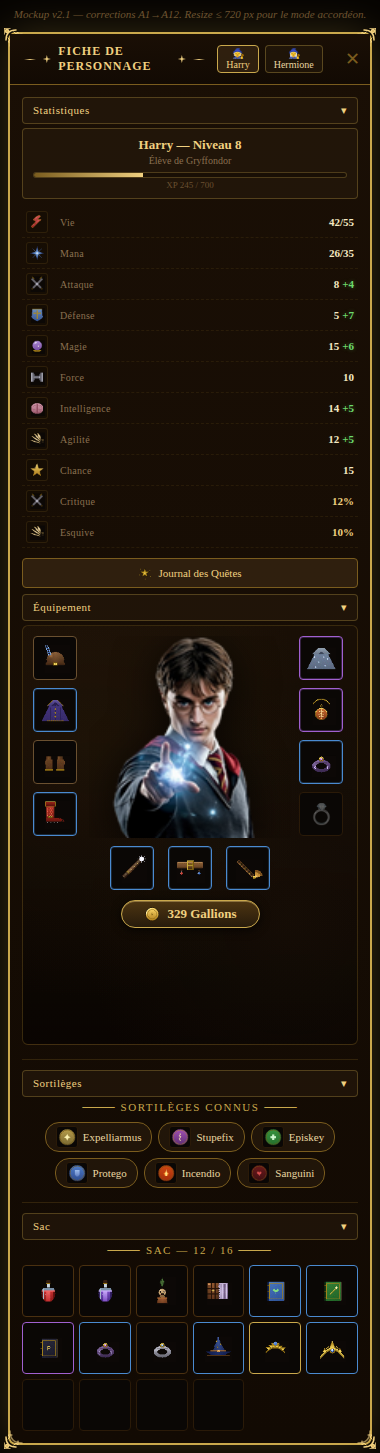
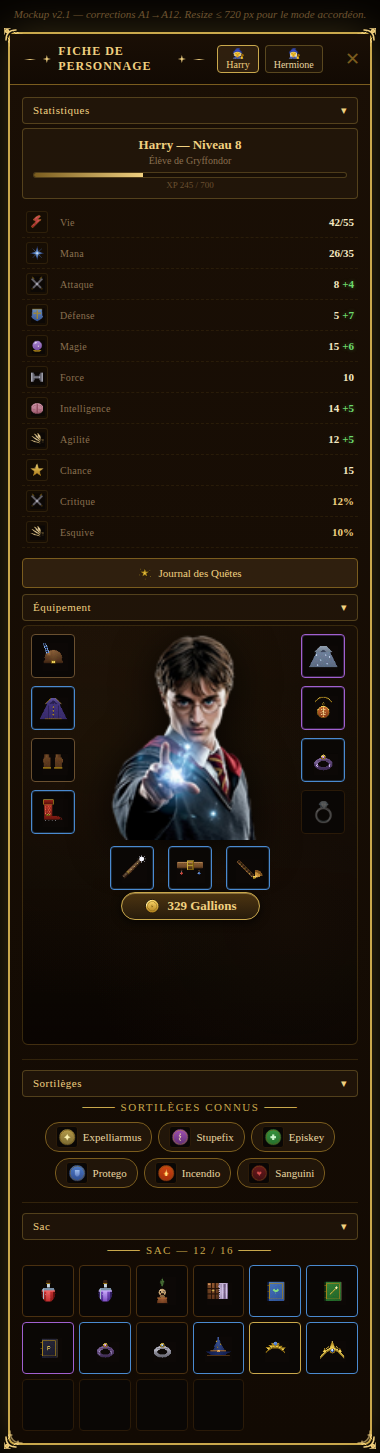
fix(character): mockup v2.10 — image dicte sa hauteur, plus aucune zone fixe
Diagnostic v2.9 raté : aspect-ratio:1 forçait la zone stage à être
plus grande que l'image source 128×128 (zone calculée d'après la
largeur 1fr du grid, généralement ~360px), créant un upscale via
object-fit:cover qui masquait le bas du perso (vide perceptible
au-dessus de la tête car le cropping coupait la partie haute).

v2.10 : aucune contrainte de taille sur le stage.
- aspect-ratio supprimé
- min-height supprimé
- font-size:0 line-height:0 sur stage → pas d'espace baseline parasite
- img : width:100% + height:auto → hauteur = ratio naturel (carré donc
  hauteur = largeur)
- gap:0 entre main et bottom dans paper-doll, margin-top:6px sur bottom
- bordure du stage ajustée

Résultat : la tête de Harry est collée au bord supérieur du stage,
le bas de l'image est collé à 6 px de la rangée d'armes. Plus aucun
trou possible.

diff --git a/tools/mockup_character_v2.html b/tools/mockup_character_v2.html
@@ -204,49 +204,38 @@ body {
   border:1px solid rgba(122,92,30,0.40);
   border-radius:6px;
   overflow:hidden;
-  padding:10px;
+  padding:8px;
   display:flex; flex-direction:column;
-  gap:6px;
+  gap:0;                     /* zéro gap : tout est collé */
 }
 .paper-doll-main{
   display:grid;
   grid-template-columns: 54px 1fr 54px;
   gap:8px;
-  align-items:start;        /* colonnes ne s'étirent pas — stage dicte sa propre hauteur */
+  align-items:start;
 }
 .paper-doll-col{
   display:flex; flex-direction:column;
   gap:8px;
 }
+/* Stage : ZÉRO hauteur propre, l'image dicte tout via width:100% + height:auto.
+   Pas d'aspect-ratio, pas de min-height : aucune source de vide possible. */
 .paper-doll-stage{
   position:relative;
-  aspect-ratio:1 / 1;       /* zone CARRÉE — image carrée la remplit sans trou */
-  width:100%;
-  display:flex;
-  align-items:flex-start;
-  justify-content:center;
-  overflow:hidden;
-  border-radius:4px;
-}
-/* Socle radial sous le perso */
-.paper-doll-stage::after{
-  content:''; position:absolute;
-  left:50%; bottom:0; transform:translateX(-50%);
-  width:80%; height:24px;
-  background:radial-gradient(ellipse at center, rgba(0,0,0,0.6), transparent 70%);
-  pointer-events:none; z-index:3;
+  display:block;
+  font-size:0;               /* supprime l'espace blanc sous l'image inline */
+  line-height:0;
 }
 .paper-doll-stage .pd-portrait{
-  position:relative; z-index:2;
-  width:100%; height:100%;
-  object-fit:cover;          /* remplit toute la zone carrée */
-  object-position:center top;
+  display:block;
+  width:100%;
+  height:auto;
   filter:drop-shadow(0 8px 22px rgba(0,0,0,0.75));
 }
 .paper-doll-bottom{
   display:flex; align-items:center; justify-content:center;
   gap:14px;
-  padding:2px 0;
+  margin-top:6px;            /* petite respiration sous le perso */
 }
 
 /* A7 — bandeau or sous la rangée wand/belt/trinket */
